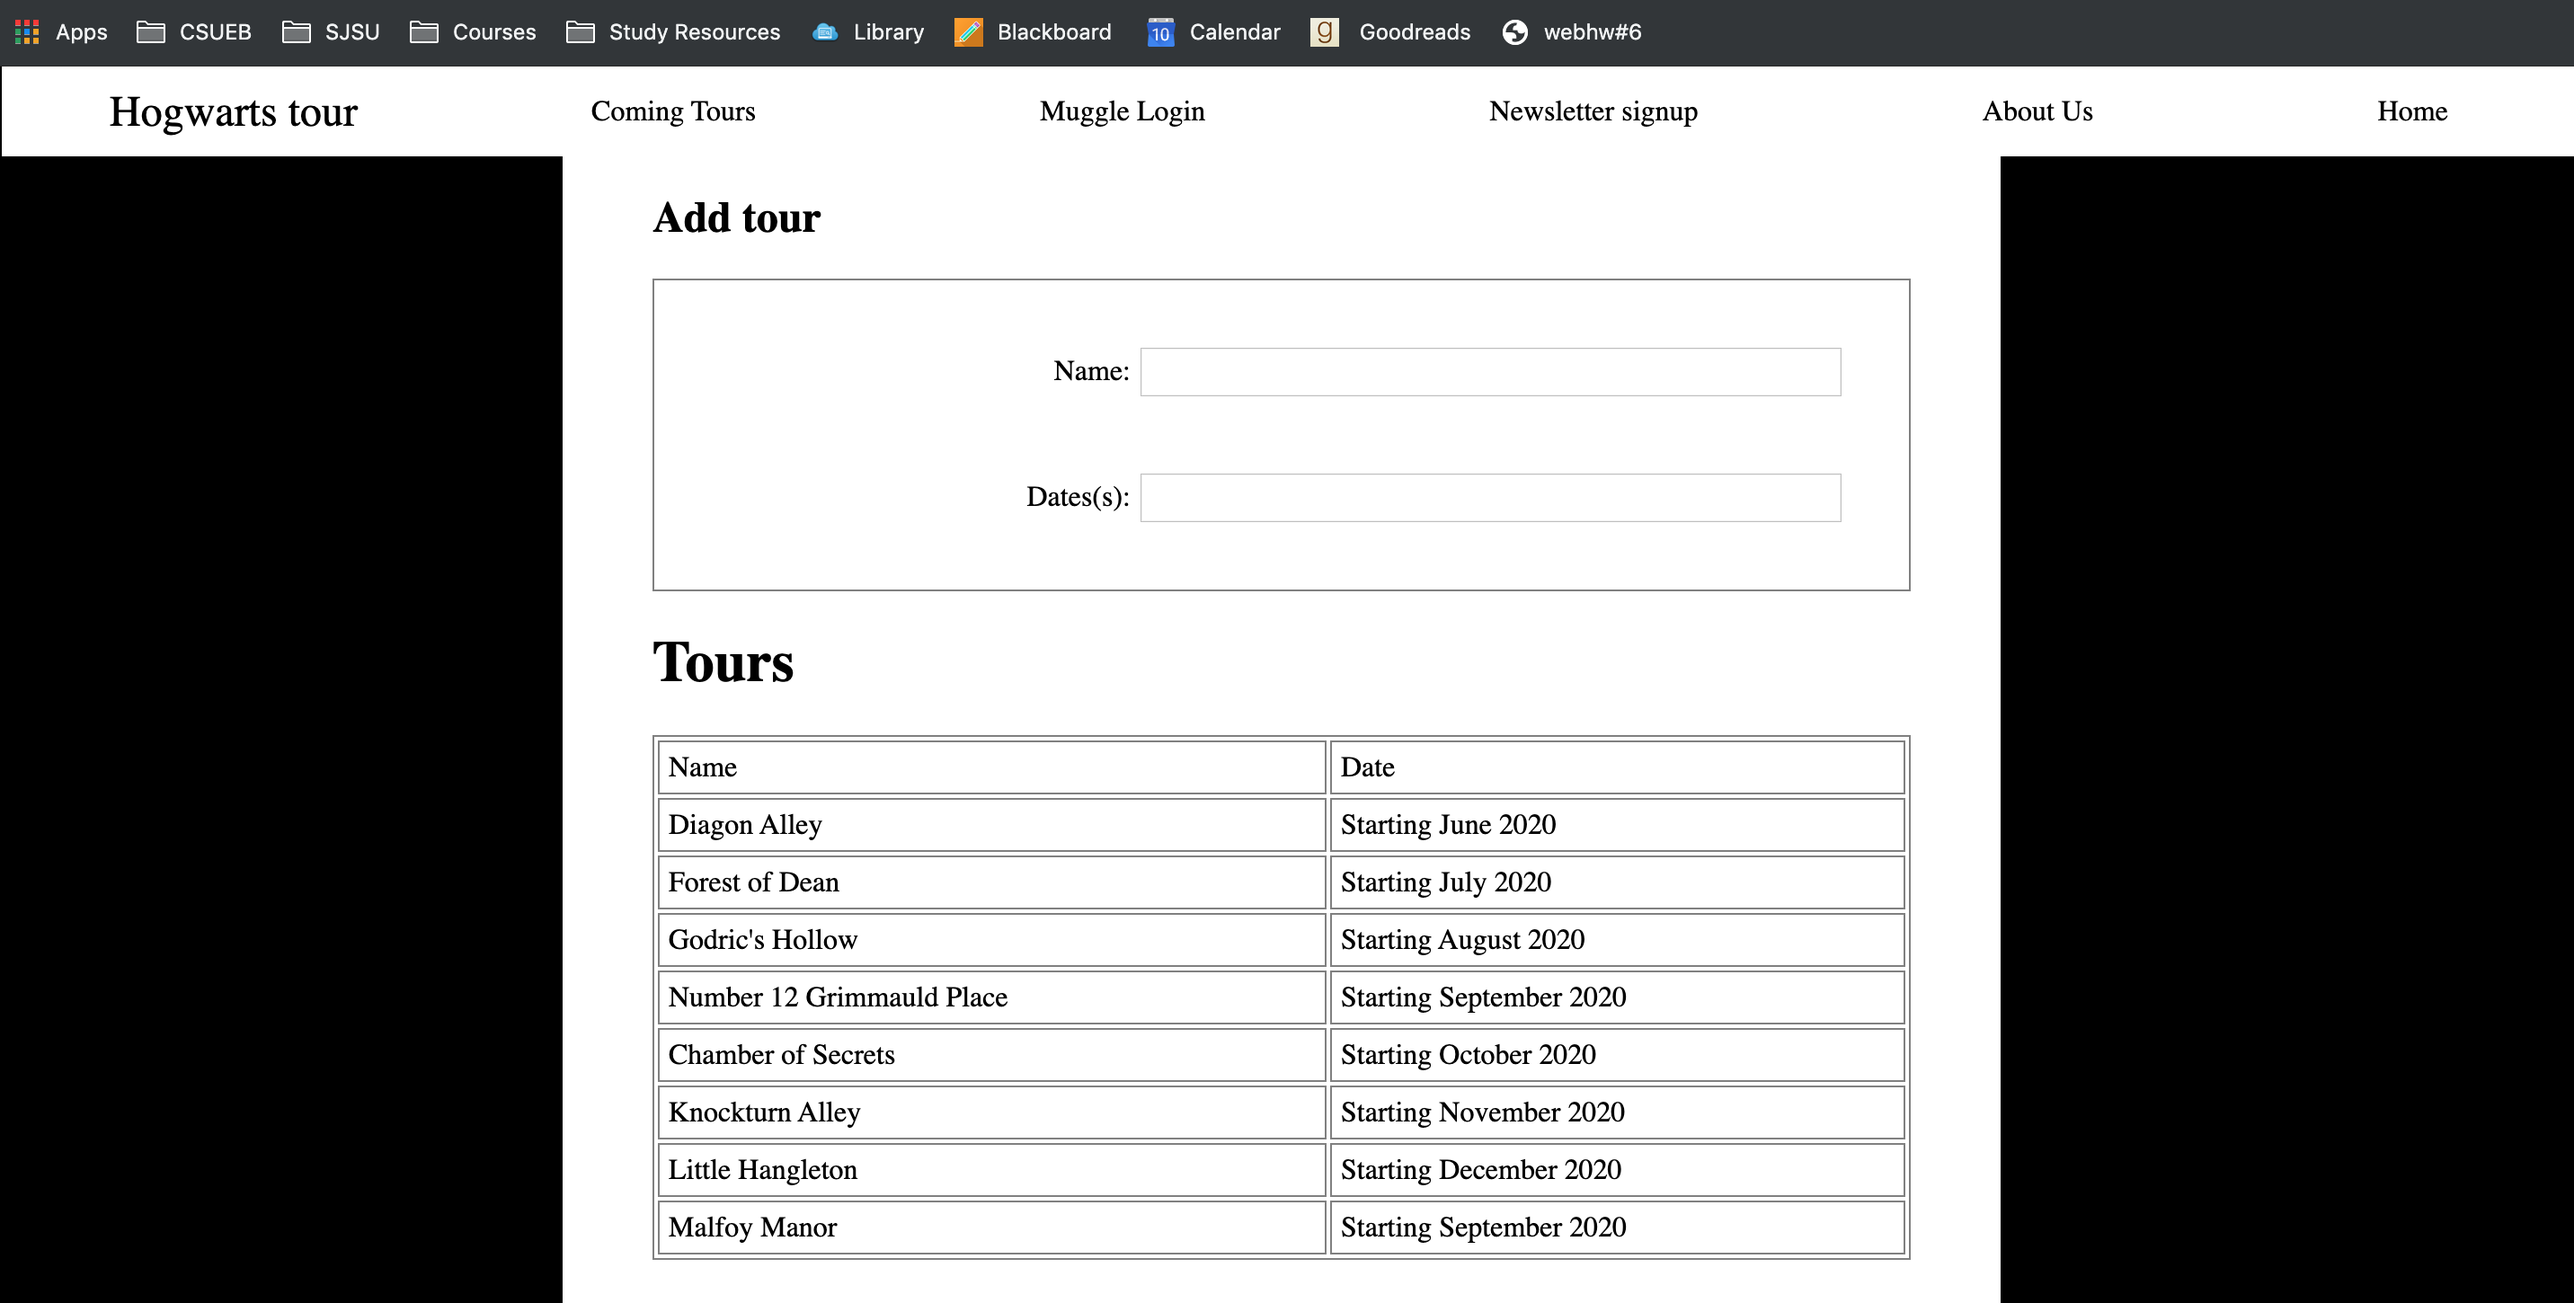
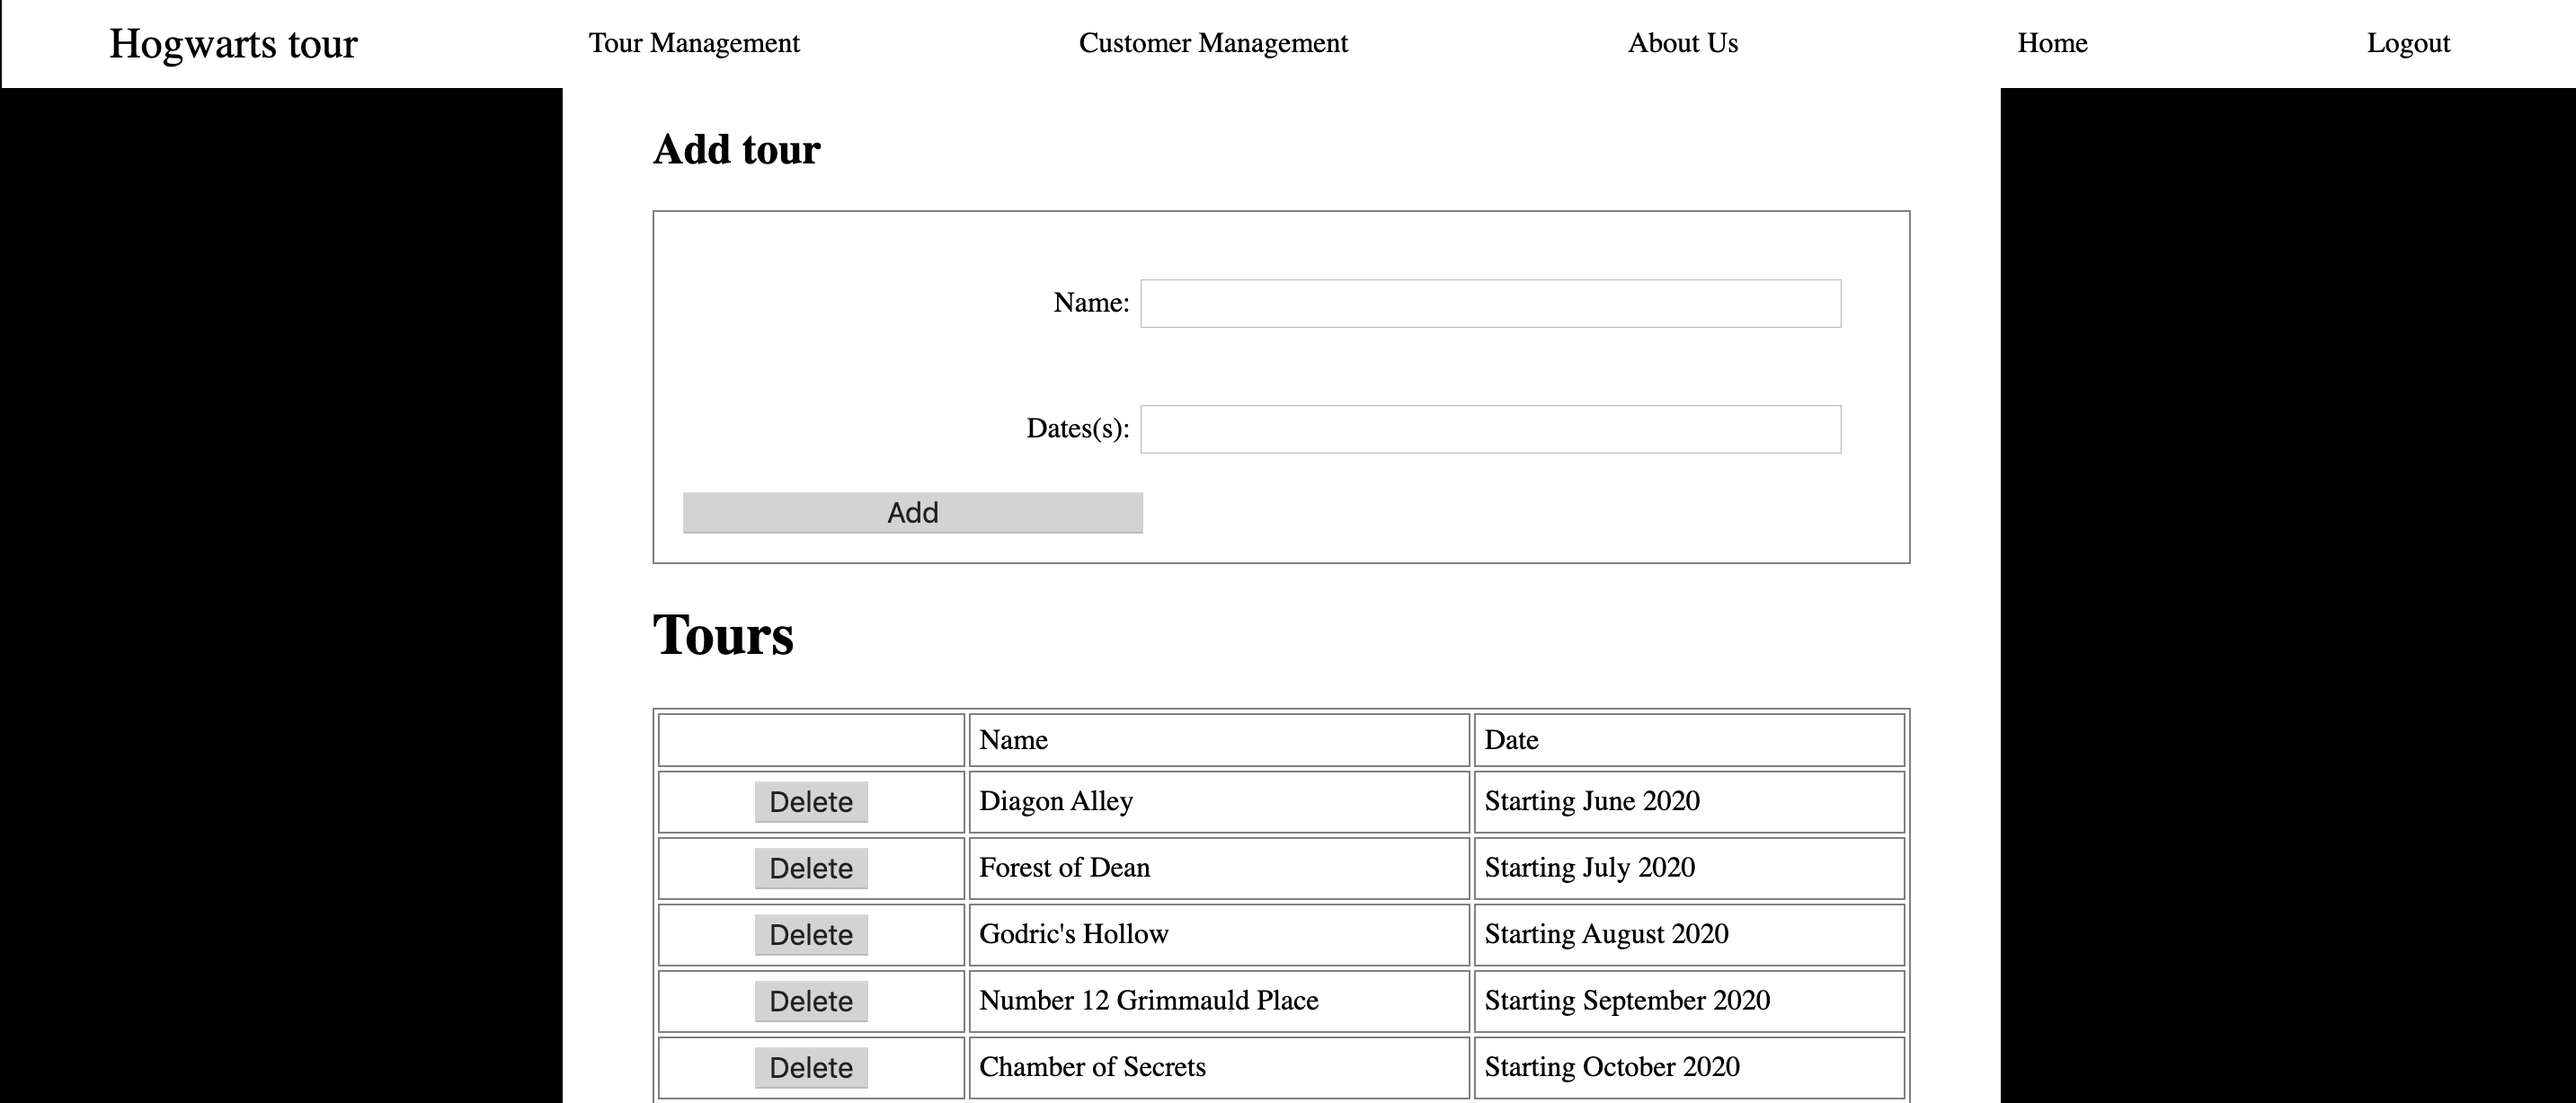
add functionality

diff --git a/ReactTour/admin/AdminTour.js b/ReactTour/admin/AdminTour.js
@@ -1,19 +1,69 @@
 import React from "react";
 import "../hogwarts.css";
+import tourData from "../tour.json";
+import TourTable from "../guest/TourTable";
 
 class AdminTour extends React.Component {
     constructor(props) {
-        super(props); // Must call
-        // Set up state here
+        super(props); 
+        this.state = {
+            addName:"Just foiling around 3",
+            addDate:"Whenever possible",   
+            tours :{
+                name:"name",
+                date: "name"
+            }
+        }
+        
     }
+   
 
-    // Renders component based on current state and props
+    addTour(event){
+    event.preventDefault();
+    this.setState({tours: {name: this.state.addName, date: this.state.addDate}});
+    event.preventDefault();
+    console.log();
+    tourData.push({"name": this.state.addName, "date": this.state.addDate});
+
+       }
+
+       textNameChange(event){
+       
+        this.setState({addName: event.target.value});
+           console.log(event.target.value);
+           console.log(this.state.addName);
+           console.log("input change");
+         
+      }
+      textDateChange(event){
+     
+        this.setState({addDate: event.target.value});
+        console.log(event.target.value);
+        console.log("date change");
+      }     
+    
+
+
     render() {
         return (
             <div>
-                Admin Tour
+        <div><h2>Add tour</h2>
+                <form id="add-tour">
+  <label>
+    Name:
+    <input type="text" name="name" value={this.state.addNname} onChange={this.textNameChange.bind(this)}/>
+  </label>
+  <label>
+    Dates(s):
+    <input type="text" name="name" value={this.state.addDdate} onChange={this.textDateChange.bind(this)}/>
+  </label>
+  <button id="login-button" onClick={this.addTour.bind(this)} >Add</button>
+</form>
+</div>
+<TourTable tourData={tourData} tours={this.state.tours} />
 </div>
         );
     }
 }
+
 export default AdminTour;

diff --git a/ReactTour/admin/AdminApp.js b/ReactTour/admin/AdminApp.js
@@ -2,6 +2,7 @@ import React from "react";
 import "../hogwarts.css";
 import About from "./About.js";
 import Home from "./Home.js";
+import AdminTour from "./AdminTour";
 
 export default class AdminApp extends React.Component {
     constructor(props) {
@@ -33,12 +34,19 @@ export default class AdminApp extends React.Component {
         console.log("logout clicked");
         this.props.logout();
     }
+    handleTourManagement(event){
+        this.setState({showing:"tourmanagement"});
+    }
     // Renders component based on current state and props
     render() {
         let contents = null;
         switch (this.state.showing) {
+       
             case "home":
                 contents = <Home />;
+                break;
+            case "tourmanagement":
+                contents = <AdminTour />
                 break;
             case "about":
                 contents = <About />;
@@ -54,7 +62,7 @@ export default class AdminApp extends React.Component {
         <nav     className="nav-container">
         <span className="CoName">Hogwarts tour</span>
             <ul>
-            <li><a href="#">Tour Management</a></li>
+            <li><a onClick={this.handleTourManagement.bind(this)}>Tour Management</a></li>
                 <li><a onClick={this.handleCustomersClick.bind(this)}>Customer Management</a></li>
                 <li><a onClick={this.handleAboutClick.bind(this)}>About Us</a></li>
                 <li><a onClick={this.handleHomeClick.bind(this)}>Home</a></li>

diff --git a/ReactTour/guest/GuestApp.js b/ReactTour/guest/GuestApp.js
@@ -3,7 +3,8 @@ import "../hogwarts.css";
 import Login from "./Login.js";
 import About from "../admin/About";
 import Home from "../admin/Home"
-import Tours from "./Tours";
+// import Tours from "./Tours";
+import AdminTour from "../admin/AdminTour";
 
 
 class GuestApp extends React.Component {
@@ -54,7 +55,7 @@ class GuestApp extends React.Component {
                 contents = <Login loginAuthentication = {this.props.loginAuthentication} />;
                 break;
                 case "tours":
-                    contents = <Tours />;
+                    contents = <AdminTour />;
                     break;
             default:
                 contents = <h2>Warning something went wrong!!!</h2>;

diff --git a/ReactTour/guest/TourTable.js b/ReactTour/guest/TourTable.js
@@ -2,18 +2,22 @@ import React from "react";
 import "../hogwarts.css";
 
 function TourTable(props) {
-    
 const row = props.tourData.map((tourDataRow,index) => 
-<tr ><td>{tourDataRow.name}</td>
-<td>{tourDataRow.date}</td></tr>
-                        );
+<tr> <td><button id="delete-button">Delete</button></td>
+
+<td>{tourDataRow.name}</td>
+<td>{tourDataRow.date}</td></tr>);
 return (
       <div>
+       
         <h1>Tours</h1>
       <table >
-  <tr> <td id="table-header">Name</td>
-    <td>Date</td></tr> 
- 
+      
+  <tr><td></td><td id="table-header">Name</td>
+    <td>Date</td>
+</tr> 
+
+
   {row}
 
     </table>

diff --git a/ReactTour/guest/Tours.js b/ReactTour/guest/Tours.js
@@ -13,19 +13,7 @@ class Tours extends React.Component {
     render() {
         return (
             <div>
-                <div><h2>Add tour</h2>
-                <form id="add-tour">
-                    
-  <label>
-    Name:
-    <input type="text" name="name" />
-  </label>
-  <label>
-    Dates(s):
-    <input type="text" name="name" />
-  </label>
-</form>
-                </div>
+ 
                 <div><TourTable tourData={tourData} /></div>
 
     </div>

diff --git a/ReactTour/hogwarts.css b/ReactTour/hogwarts.css
@@ -88,7 +88,8 @@ body {
 #login-button{
 
     width: 55%;
-    background: darkgray;
+    background: lightgrey;
+   
     font-size: 1em;
 }
 #login-label{
@@ -142,4 +143,13 @@ table{
     margin: 5px;
     height: 2em;
     width: 35em;
+}
+#add-tour button{
+    width:16em;
+}
+#delete-button{
+    background: lightgrey;
+    font-size: 1em;
+   
+    margin-left: 3em;
 }

diff --git a/README.md b/README.md
@@ -13,3 +13,76 @@
 ### (b)
 
 ![Developer-tool Screenshot](images/addTour.png)
+
+### (c)
+
+We use a class based component
+![Developer-tool Screenshot](images/addTourFunctionality.png)
+
+### (d)
+```javascript
+class AdminTour extends React.Component {
+    constructor(props) {
+        super(props); 
+        this.state = {
+            addName:"Just foiling around 3",
+            addDate:"Whenever possible",   
+            tours :{
+                name:"name",
+                date: "name"
+            }
+        }
+        
+    }
+```
+
+### (e)
+
+```javascript
+
+<form id="add-tour">
+  <label>
+    Name:
+    <input type="text" name="name" value={this.state.addNname} onChange={this.textNameChange.bind(this)}/>
+  </label>
+  <label>
+    Dates(s):
+    <input type="text" name="name" value={this.state.addDdate} onChange={this.textDateChange.bind(this)}/>
+  </label>
+  <button id="login-button" onClick={this.addTour.bind(this)} >Add</button>
+</form>
+</div>
+<TourTable tourData={tourData} tours={this.state.tours} />
+</div>
+
+```
+
+### (f)
+
+```javascript
+
+   addTour(event){
+    event.preventDefault();
+    this.setState({tours: {name: this.state.addName, date: this.state.addDate}});
+    event.preventDefault();
+    console.log();
+    tourData.push({"name": this.state.addName, "date": this.state.addDate});
+
+       }
+
+       textNameChange(event){
+       
+        this.setState({addName: event.target.value});
+           console.log(event.target.value);
+           console.log(this.state.addName);
+           console.log("input change");
+         
+      }
+      textDateChange(event){
+     
+        this.setState({addDate: event.target.value});
+        console.log(event.target.value);
+        console.log("date change");
+      }  
+
+```
